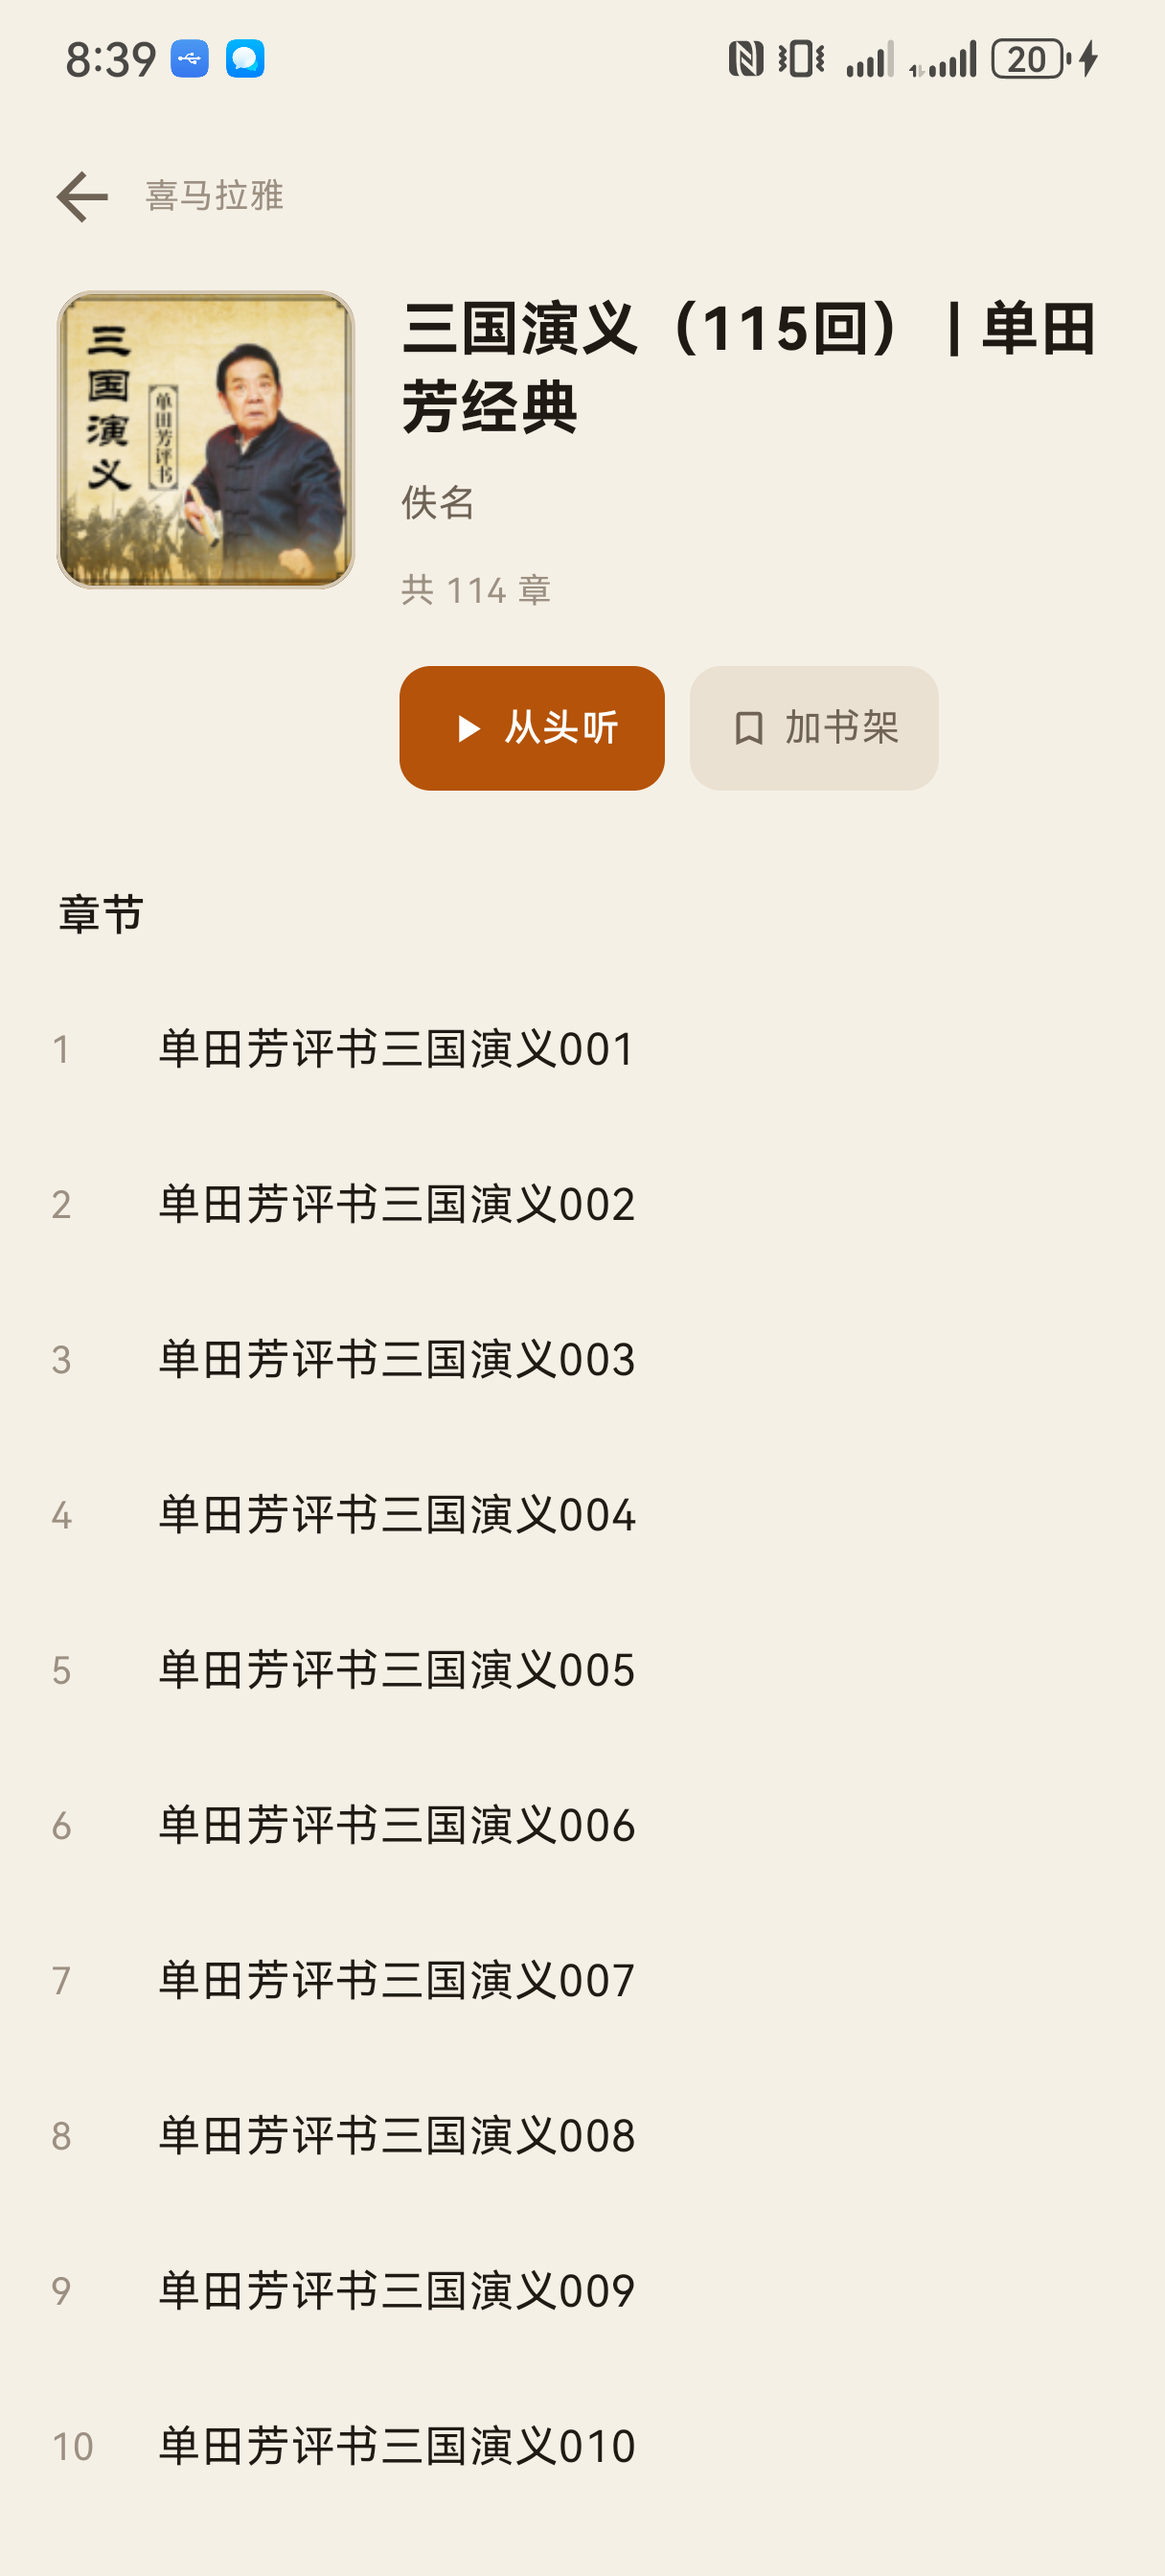
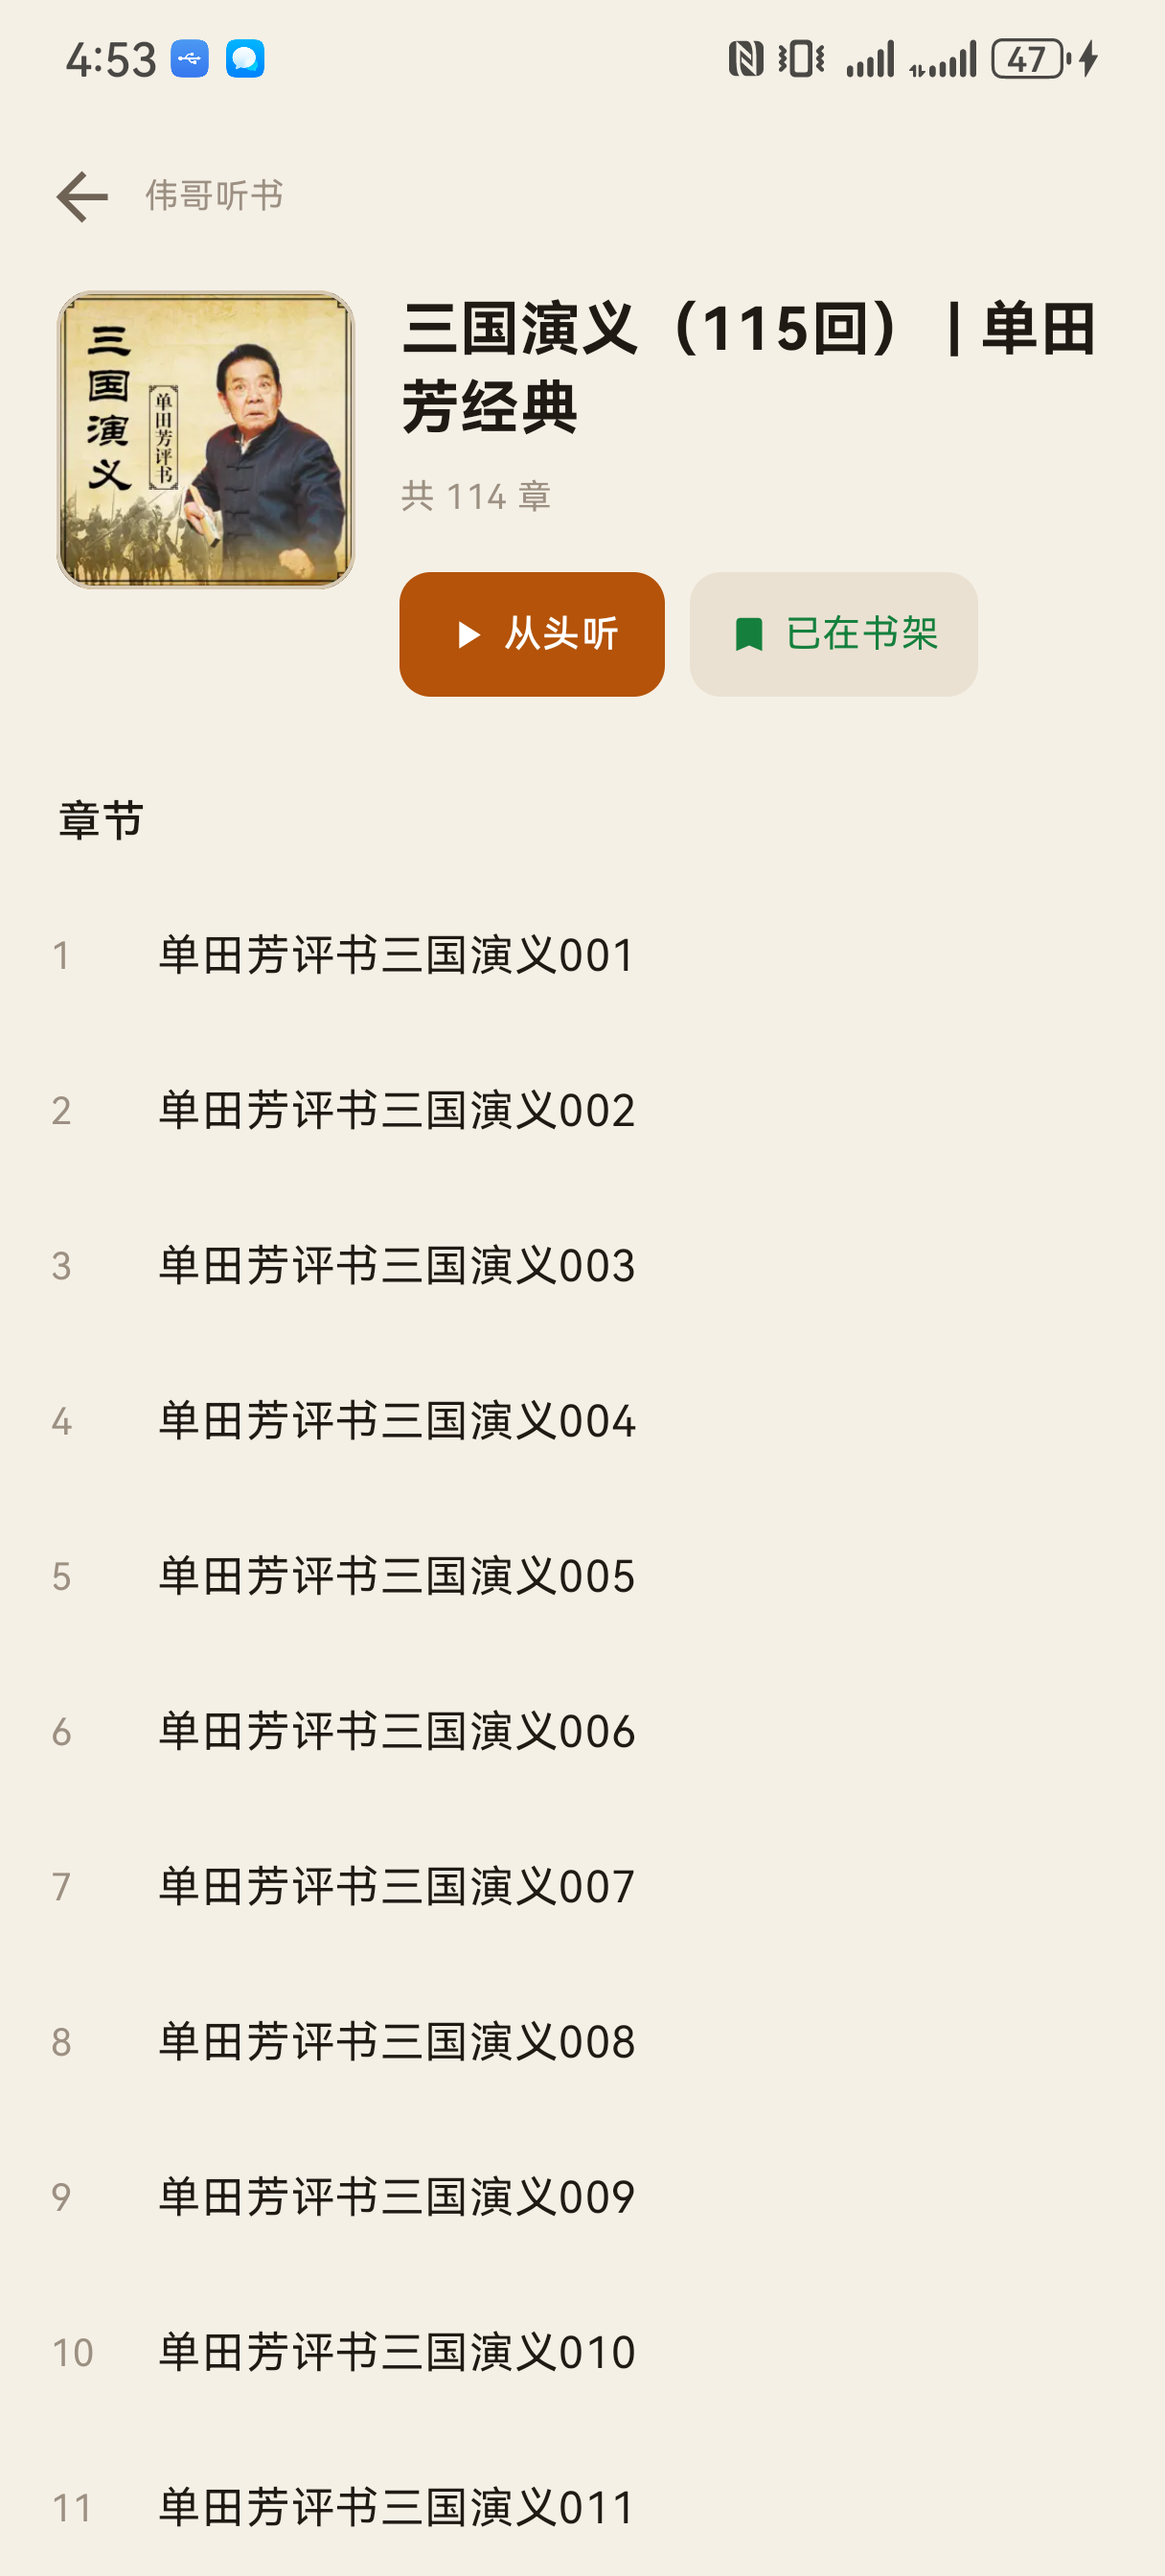
构建：release 签名与 R8 发布包
- 签名配置从 android/keystore.properties 读取，缺文件时退回 debug 签名（保证 clone 即可构建）
- 新增 release 构建：debug 21MB → release 2.46MB（R8 + 资源压缩）
- 修掉详情页在没有主播名时显示「佚名」的问题，改为不显示
- README 补构建/签名说明，截图换成 v1.3.2 release 版实拍

diff --git a/preview/ui-preview.html b/preview/ui-preview.html
@@ -42,8 +42,8 @@
 <div class="head">
   <h1>伟哥听书 · 界面与图标</h1>
   <p>
-    华为 BRA-AL00 / Android 12，<b>v1.2.0</b> 实拍（底部还是三个页签）。
-    v1.3.0 删掉了「书源」页、首页抬头换成品牌名，v1.3.1 换了新图标——这两版还没补真机截图。
+    华为 BRA-AL00 / Android 12，<b>v1.3.2 release 版</b>实拍（R8 压缩后 2.46 MB）。
+    界面是当前状态：两个页签、首页抬头「伟哥听书」、播放页封面 960 那档。
     内容全部来自内置的喜马拉雅接口：搜索 → 专辑音轨 → MP3 直链，不经过任何网页解析。
   </p>
   <p style="margin-top:14px;display:flex;align-items:center;gap:16px;flex-wrap:wrap;">
@@ -61,19 +61,28 @@
 <div class="row">
   <div class="item">
     <img src="shot-shelf.png" alt="书架">
-    <div class="cap"><b>书架</b><br>继续收听带真实封面与进度<br>（进程杀掉后仍记得听到第 1 章）</div>
+    <div class="cap"><b>书架</b><br>抬头「伟哥听书」· 2 本在架<br>继续收听记着听到第 1 章</div>
   </div>
   <div class="item">
     <img src="shot-detail.png" alt="详情">
-    <div class="cap"><b>详情 + 章节</b><br>114 章，来自专辑接口分页<br>右侧浮层是系统音量条</div>
+    <div class="cap"><b>详情 + 章节</b><br>114 章，音轨接口分 6 页取全<br>深链进来的书不显示主播名</div>
   </div>
   <div class="item">
     <img src="shot-player.png" alt="播放页">
-    <div class="cap"><b>播放页</b><br>00:05 / 23:02，时长来自真实音轨<br>顶栏中间在 v1.3.0 已改为「伟哥听书」</div>
+    <div class="cap"><b>播放页</b><br>03:30 / 23:02，封面取 960 那档<br>顶栏中间是「伟哥听书」</div>
   </div>
 </div>
 
 <div class="facts">
+  <h2>v1.3.2 release 版（上面三张截图就是这一版）</h2>
+  <table>
+    <tr><td>体积</td><td>debug 21 MB → release <b>2.46 MB</b>（R8 + 资源压缩）</td></tr>
+    <tr><td>签名</td><td>正式密钥 <code>CN=WeiGe Tingshu</code>，有效期 10000 天；密钥与口令都不进仓库</td></tr>
+    <tr><td>实测</td><td>装上启动无崩溃 → 深链开专辑 114 章正常 → 播放 <code>state=3</code>、进度 03:30 / 23:02、通知元数据完整</td></tr>
+    <tr><td>顺手修的</td><td>深链进来的书没有主播名时，不再显示「佚名」，直接空着</td></tr>
+    <tr><td>注意</td><td>和 debug 版签名不同，装过 debug 包的必须先卸载（会清掉书架与进度）</td></tr>
+  </table>
+
   <h2>v1.3.1</h2>
   <table>
     <tr><td>新图标</td><td>书 + W 的抽象标；新增 Android 13 主题图标单色层（书画描边，否则实心封面会把 W 糊成一坨）</td></tr>
@@ -87,7 +96,7 @@
     <tr><td>顺手加的</td><td>首页右上角原来的「更多」换成日夜切换（书源入口没了，这个位置给常用功能）</td></tr>
   </table>
 
-  <h2>v1.2.0 在这台机器上验到的东西</h2>
+  <h2>之前几版验过的东西</h2>
   <table>
     <tr><td>搜索 → 章节</td><td><span class="ok">✓</span> 20 条结果 / 326ms，114 章 / 309ms（6 页并发取全）</td></tr>
     <tr><td>音频直链</td><td><span class="ok">✓</span> <code>aod.cos.tx.xmcdn.com/...mp3</code>，206 audio/mpeg，不带时效</td></tr>

diff --git a/android/app/src/main/java/com/weige/tingshu/ui/BookScreen.kt b/android/app/src/main/java/com/weige/tingshu/ui/BookScreen.kt
@@ -86,12 +86,15 @@ fun BookScreen(vm: AppViewModel) {
                         maxLines = 2,
                         overflow = TextOverflow.Ellipsis,
                     )
-                    Spacer(Modifier.height(6.dp))
-                    Text(
-                        book.author.ifBlank { "佚名" },
-                        color = Palette.Text2,
-                        fontSize = 12.sp,
-                    )
+                    // 深链打开的书拿不到主播名（音轨接口只给 uid），宁可空着也别写「佚名」
+                    if (book.author.isNotBlank()) {
+                        Spacer(Modifier.height(6.dp))
+                        Text(
+                            book.author,
+                            color = Palette.Text2,
+                            fontSize = 12.sp,
+                        )
+                    }
                     Spacer(Modifier.height(4.dp))
                     Text(
                         if (chapters.isEmpty()) "章节未加载" else "共 ${chapters.size} 章",
